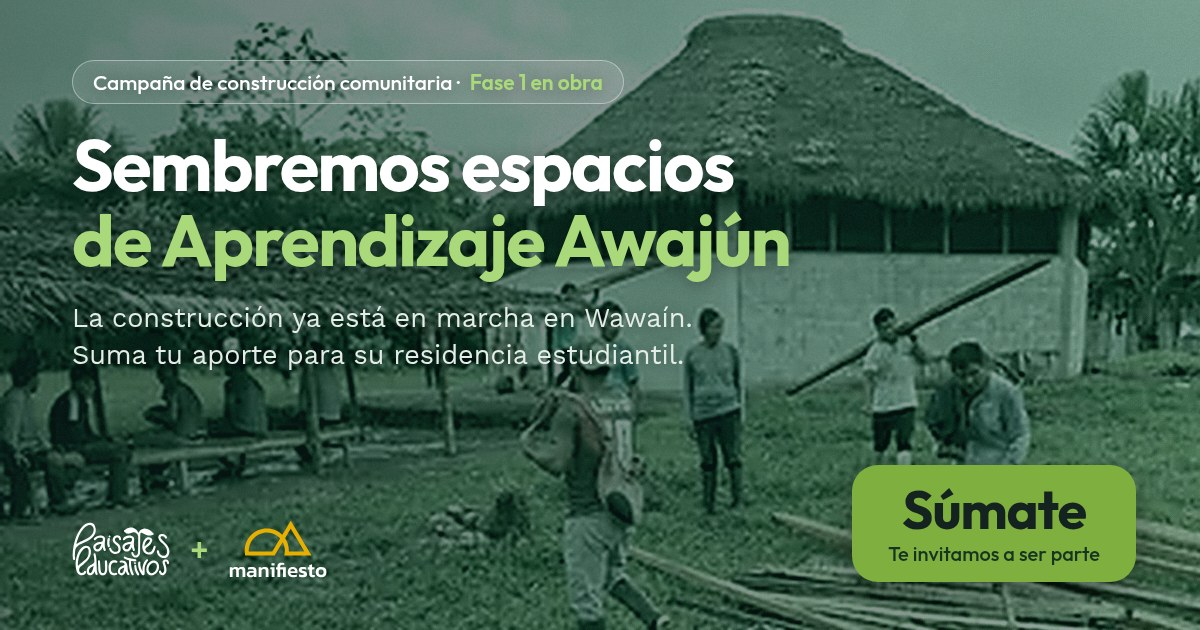
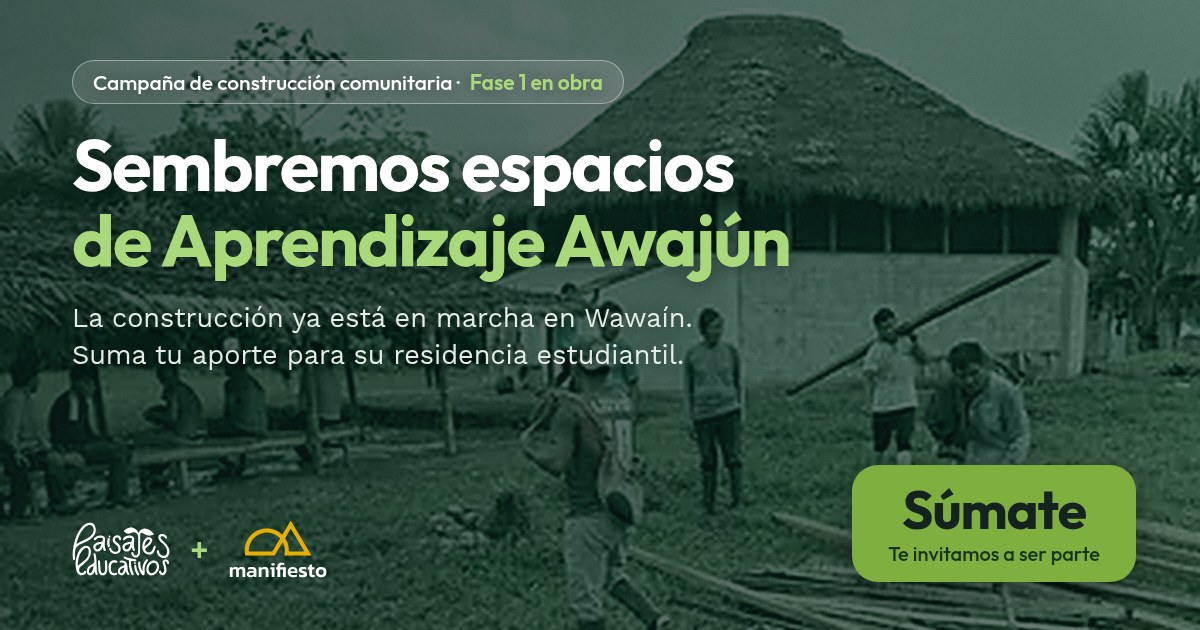
Orden del proyecto, donación de personas por formulario y ajustes de datos
- Paisajes Educativos: 15 coordinadores y 7 proyectos.
- Casa Semilla se retira su "Conoce más" (bambú, norma, ventilación).
- Orden del proyecto: Casa Semilla, Así avanza Wawaín, y luego el
  resto como estaba. Las fotos de Así avanza ya no van numeradas.
- Donación de personas: se retiran los datos de la cuenta y el botón
  de copiar. Se explica por qué se piden datos (solo se recibe dinero
  bajo el concepto de donación) y se ofrecen dos caminos: el
  formulario y WhatsApp.
- Transparencia: se quita la referencia a la cuenta y al Yape.
- Imagen para compartir: verde más oscuro para que se lean los títulos.

Claude-Session: https://claude.ai/code/session_01WHrWMvfaq2NJDX1hXrNGz8

diff --git a/index.html b/index.html
@@ -351,12 +351,6 @@ figcaption{font-size:var(--f-mini);color:var(--gris-2);margin-top:6px}
 .aporta .enlace{display:inline-block;margin-top:8px}
 @media(min-width:900px){.aporta-2{grid-template-columns:1fr 1fr;gap:var(--e-2)}.aporta{padding:18px 22px}.aporta h3{font-size:18px}}
 
-/* rejilla de datos técnicos dentro de un "Conoce más" */
-.tecnica{display:grid;grid-template-columns:1fr 1fr;gap:var(--e-1)}
-.tecnica div{background:var(--blanco);border:1px solid var(--linea);border-radius:var(--r-s);padding:11px 13px}
-.tecnica h4{font-size:14.5px;margin-bottom:3px}
-.tecnica p{margin:0;font-size:13px;line-height:1.42}
-@media(min-width:900px){.tecnica{grid-template-columns:repeat(4,1fr);gap:var(--e-2)}.tecnica div{padding:14px 16px}.tecnica h4{font-size:16px}.tecnica p{font-size:14px}}
 
 /* ═════════ BITÁCORA DE OBRA ═════════ */
 .bitacora{margin-top:var(--e-3)}
@@ -519,25 +513,20 @@ figcaption{font-size:var(--f-mini);color:var(--gris-2);margin-top:6px}
   .panel-cta .btn{flex:0 0 auto}
 }
 
-/* datos de la cuenta */
-.donar-grid{display:grid;gap:var(--e-2)}
-.cuenta{border:1px solid var(--linea);border-radius:var(--r-m);overflow:hidden}
-.cuenta-tit{display:flex;justify-content:space-between;align-items:center;gap:10px;background:var(--tinte);padding:9px 13px}
-.cuenta-tit p{margin:0;font-size:12px;color:var(--gris)}
-.cuenta-tit strong{display:block;font-family:var(--display);font-size:15px;color:var(--hondo);letter-spacing:.01em}
-.sello-inst{font-family:var(--display);font-size:11px;font-weight:600;color:var(--marca);background:var(--blanco);border:1px solid #B9D3C4;padding:3px 9px;border-radius:100px;white-space:nowrap}
-.fila-copia{display:grid;grid-template-columns:1fr auto;gap:10px;align-items:center;padding:9px 13px;border-top:1px solid var(--linea)}
-.fila-copia span{display:block;font-size:12px;color:var(--gris)}
-.fila-copia code{font-family:var(--display);font-weight:600;font-size:14.5px;color:var(--hondo);letter-spacing:0;word-break:break-all}
-.copiar{font-family:var(--display);font-weight:600;font-size:13px;color:var(--marca);background:var(--crema-2);border:1px solid var(--linea-fuerte);border-radius:100px;padding:7px 13px;cursor:pointer;min-width:74px}
-.copiar.ok{background:var(--marca);color:#fff;border-color:var(--marca)}
-.fila-copia.concepto{background:#FFF8E1;border-top:2px solid var(--amarillo)}
-.fila-copia.concepto span{color:#7A5600;font-weight:600;font-family:var(--display)}
-.fila-copia.concepto code{word-break:normal}
-.aviso-concepto{background:#FFF8E1;border:1px solid #EACB73;border-left:4px solid var(--amarillo);border-radius:var(--r-s);padding:10px 13px;font-size:13.5px;color:var(--tinta);margin:0 0 10px;line-height:1.45}
-.aviso-concepto b{font-family:var(--display)}
-.donar-nota{font-size:13px;color:var(--gris);margin:0}
-@media(min-width:900px){.donar-grid{grid-template-columns:1fr 1fr;gap:var(--e-3);align-items:start}}
+/* donación de personas: por qué los datos + dos caminos */
+.nota-datos{background:#FFF8E1;border:1px solid #EACB73;border-left:4px solid var(--amarillo);border-radius:var(--r-s);padding:10px 13px;font-size:13px;line-height:1.45;color:var(--tinta);margin:0 0 var(--e-2)}
+.nota-datos b{font-family:var(--display)}
+.vias-donar{display:grid;gap:var(--e-1)}
+.via-don{display:flex;flex-direction:column;gap:6px;background:var(--papel);border:1px solid var(--linea);border-radius:var(--r-m);padding:13px 15px}
+.via-don h4{font-size:15px}
+.via-don p{flex:1;margin:0;font-size:13px;color:var(--gris);line-height:1.42}
+.via-don .btn{margin-top:6px;width:100%}
+@media(min-width:900px){
+  .nota-datos{font-size:14px;padding:12px 16px}
+  .vias-donar{grid-template-columns:1fr 1fr;gap:var(--e-2)}
+  .via-don{padding:18px 20px}.via-don h4{font-size:17px}.via-don p{font-size:14px}
+  .via-don .btn{width:auto;align-self:flex-start}
+}
 
 /* niveles de empresa */
 /* niveles y Frutos comparten el ámbar: son las categorías de auspicio */
@@ -674,30 +663,6 @@ body.panel-abierto{overflow:hidden}
 .transparencia .sub{font-size:17px}
 .no-js-only{display:block}.js .no-js-only{display:none}
 
-/* ═════════ AVISO COPIADO ═════════ */
-.aviso{position:fixed;left:50%;bottom:92px;transform:translate(-50%,20px);z-index:300;background:var(--hondo);color:#fff;font-family:var(--display);font-size:14px;padding:9px 18px;border-radius:100px;opacity:0;pointer-events:none;transition:opacity .2s,transform .2s}
-.aviso.ver{opacity:1;transform:translate(-50%,0)}
-
-/* ═════ MÓVIL: títulos al ~85 % y bloques más compactos ═════ */
-@media(max-width:899px){
-  .cabeza-seccion h2{font-size:16px}
-  .cabeza-seccion{margin-bottom:var(--e-2)}
-  .pieza h3{font-size:14.5px}
-  .aporta h3,.frutos h4{font-size:14.5px}
-  .secuencia h3{font-size:14.5px}
-  .spec .n{font-size:17px}
-  .dato .n{font-size:17px}
-  .nivel .nom{font-size:14px}.nivel .precio{font-size:17px}
-  .meta-cifras .reunido{font-size:29px}.meta-cifras .total b{font-size:17px}
-  .desglose .n{font-size:16.5px}
-  .esc .n{font-size:14.5px}
-  .cierre h2{font-size:19.5px}
-  .transparencia .tit{font-size:17px}
-  .transparencia .sub{font-size:14.5px}
-  .panel-cab h2{font-size:14.5px}
-  .avance .cifra{font-size:26px}
-}
-
 /* sin JS: se muestran los cuatro paneles */
 .no-js .via-card .ver{display:none}
 
@@ -819,6 +784,82 @@ body.panel-abierto{overflow:hidden}
 <section class="seccion wrap" id="proyecto" aria-labelledby="h-proyecto">
   <div class="cabeza-seccion"><h2 id="h-proyecto">El proyecto</h2><span class="raya" aria-hidden="true"></span></div>
 
+  <!-- Casa Semilla -->
+  <div class="bloque" id="casa-semilla">
+    <div class="cab-bloque">
+      <div>
+        <p class="eyebrow">Casa Semilla Awajún · residencia estudiantil</p>
+        <h2 class="tit">Un lugar para dormir, cocinar y descansar</h2>
+      </div>
+      <p class="entrada">Un módulo de madera y bambú sobre cimentación de concreto, diseñado para los estudiantes que lo van a habitar. Optimiza la capacidad de camas y deja un espacio flexible al centro, para que la residencia sirva también para estudiar y compartir.</p>
+    </div>
+
+    <div class="par">
+      <figure class="ahora">
+        <img src="assets/img/residencia-hoy-680.webp" srcset="assets/img/residencia-hoy-680.webp 680w, assets/img/residencia-hoy-1200.webp 1200w" sizes="(min-width:900px) 550px, 46vw" alt="Interior del alojamiento actual: camas bajo un techo de calamina, paredes de caña, piso de tierra y ropa tendida" loading="lazy" width="680" height="425">
+        <span class="etq">Hoy</span>
+        <figcaption>Donde duermen hoy: caña, calamina y piso de tierra, sin cocina ni servicios.</figcaption>
+      </figure>
+      <figure class="luego">
+        <img src="assets/img/casa-semilla-render-680.webp" srcset="assets/img/casa-semilla-render-680.webp 680w, assets/img/casa-semilla-render-936.webp 936w" sizes="(min-width:900px) 550px, 46vw" alt="Render de Casa Semilla Awajún: volumen de madera y bambú con celosías, techo de calamina y alero de palma" loading="lazy" width="680" height="425">
+        <span class="etq">Lo que construimos juntos</span>
+        <figcaption>Casa Semilla Awajún: ventilación cruzada, camas protegidas y un espacio común al centro.</figcaption>
+      </figure>
+    </div>
+
+    <div class="specs">
+      <div class="spec"><p class="n">120 m²</p><p>área a construir</p></div>
+      <div class="spec"><p class="n">28</p><p>camas</p></div>
+      <div class="spec"><p class="n">1</p><p>cocina</p></div>
+      <div class="spec"><p class="n">1</p><p>baño</p></div>
+    </div>
+
+    <div class="aporta-2">
+      <div class="aporta comunidad">
+        <h3>Lo que ya puso la comunidad</h3>
+        <ul class="lista">
+          <li>Madera recolectada y curada</li>
+          <li>Bolsas de cemento</li>
+          <li>Herramientas de construcción</li>
+          <li>Las faenas organizadas y la mano de obra</li>
+        </ul>
+      </div>
+      <div class="aporta campana">
+        <h3>Lo que suma la campaña</h3>
+        <ul class="lista">
+          <li>Fijaciones y conectores estructurales</li>
+          <li>Herramientas de corte</li>
+          <li>Preservantes, mallas y cerramientos</li>
+          <li>Instalación sanitaria y eléctrica</li>
+        </ul>
+        <a class="enlace" href="#meta">Ver la meta y en qué se convierte</a>
+      </div>
+    </div>
+  </div>
+
+  <!-- Bitácora de obra -->
+  <div class="bloque" id="bitacora">
+    <div class="cab-bloque">
+      <h2 class="tit">Así avanza Wawaín</h2>
+      <p class="entrada">La comunidad ya prepara la madera. Estas son las tres etapas del trabajo que está en curso ahora mismo, antes de que llegue el material de la campaña.</p>
+    </div>
+    <div class="carrusel bitacora" tabindex="0" aria-label="Avance de obra en Wawaín">
+      <figure>
+        <img src="assets/img/obra-1-poza.webp" alt="Poza de curado armada con estructura de caña y plástico, junto a la escuela de la comunidad" loading="lazy" width="420" height="315">
+        <figcaption><b>Se arma la poza</b>Estructura de caña y geomembrana, levantada en faena junto a la escuela.</figcaption>
+      </figure>
+      <figure>
+        <img src="assets/img/obra-2-faena.webp" alt="Comuneros acomodan listones de madera dentro de la poza de tratamiento" loading="lazy" width="420" height="315">
+        <figcaption><b>La faena acomoda la madera</b>Los listones recolectados por la comunidad entran a la poza, pieza por pieza.</figcaption>
+      </figure>
+      <figure>
+        <img src="assets/img/obra-3-curado.webp" alt="Madera sumergida en la solución de preservante dentro de la poza" loading="lazy" width="420" height="315">
+        <figcaption><b>La madera se cura</b>Sumergida en preservante, queda protegida contra hongos e insectos.</figcaption>
+      </figure>
+    </div>
+    <p class="desliza">Desliza para ver las tres etapas.</p>
+  </div>
+
   <!-- Qué es -->
   <div class="bloque" id="que-es">
     <div class="cab-bloque">
@@ -890,95 +931,6 @@ body.panel-abierto{overflow:hidden}
         <p class="nota-fuente">MINEDU (2023, 2024) · ComexPerú (2025) · PRONIED–UGM, «Innovación educativa en Frontera» (2026) · Memoria del proyecto.</p>
       </div>
     </details>
-  </div>
-
-  <!-- Casa Semilla -->
-  <div class="bloque" id="casa-semilla">
-    <div class="cab-bloque">
-      <div>
-        <p class="eyebrow">Casa Semilla Awajún · residencia estudiantil</p>
-        <h2 class="tit">Un lugar para dormir, cocinar y descansar</h2>
-      </div>
-      <p class="entrada">Un módulo de madera y bambú sobre cimentación de concreto, diseñado para los estudiantes que lo van a habitar. Optimiza la capacidad de camas y deja un espacio flexible al centro, para que la residencia sirva también para estudiar y compartir.</p>
-    </div>
-
-    <div class="par">
-      <figure class="ahora">
-        <img src="assets/img/residencia-hoy-680.webp" srcset="assets/img/residencia-hoy-680.webp 680w, assets/img/residencia-hoy-1200.webp 1200w" sizes="(min-width:900px) 550px, 46vw" alt="Interior del alojamiento actual: camas bajo un techo de calamina, paredes de caña, piso de tierra y ropa tendida" loading="lazy" width="680" height="425">
-        <span class="etq">Hoy</span>
-        <figcaption>Donde duermen hoy: caña, calamina y piso de tierra, sin cocina ni servicios.</figcaption>
-      </figure>
-      <figure class="luego">
-        <img src="assets/img/casa-semilla-render-680.webp" srcset="assets/img/casa-semilla-render-680.webp 680w, assets/img/casa-semilla-render-936.webp 936w" sizes="(min-width:900px) 550px, 46vw" alt="Render de Casa Semilla Awajún: volumen de madera y bambú con celosías, techo de calamina y alero de palma" loading="lazy" width="680" height="425">
-        <span class="etq">Lo que construimos juntos</span>
-        <figcaption>Casa Semilla Awajún: ventilación cruzada, camas protegidas y un espacio común al centro.</figcaption>
-      </figure>
-    </div>
-
-    <div class="specs">
-      <div class="spec"><p class="n">120 m²</p><p>área a construir</p></div>
-      <div class="spec"><p class="n">28</p><p>camas</p></div>
-      <div class="spec"><p class="n">1</p><p>cocina</p></div>
-      <div class="spec"><p class="n">1</p><p>baño</p></div>
-    </div>
-
-    <div class="aporta-2">
-      <div class="aporta comunidad">
-        <h3>Lo que ya puso la comunidad</h3>
-        <ul class="lista">
-          <li>Madera recolectada y curada</li>
-          <li>Bolsas de cemento</li>
-          <li>Herramientas de construcción</li>
-          <li>Las faenas organizadas y la mano de obra</li>
-        </ul>
-      </div>
-      <div class="aporta campana">
-        <h3>Lo que suma la campaña</h3>
-        <ul class="lista">
-          <li>Fijaciones y conectores estructurales</li>
-          <li>Herramientas de corte</li>
-          <li>Preservantes, mallas y cerramientos</li>
-          <li>Instalación sanitaria y eléctrica</li>
-        </ul>
-        <a class="enlace" href="#meta">Ver la meta y en qué se convierte</a>
-      </div>
-    </div>
-
-    <details class="mas">
-      <summary><span class="abrir">Conoce más</span><span class="cerrar">Ver menos</span><span class="flecha" aria-hidden="true"></span><span class="pista">materiales, norma y sistema constructivo</span></summary>
-      <div class="mas-cuerpo">
-        <p>Bambú Guadua y madera local sobre una cimentación de concreto. Es el acero vegetal del territorio: un material que crece cerca, que la comunidad sabe trabajar y que, bien diseñado, cumple norma.</p>
-        <div class="tecnica">
-          <div><h4>Bambú Guadua</h4><p>Material local, de crecimiento rápido, con buen comportamiento estructural en clima húmedo.</p></div>
-          <div><h4>Norma E.100</h4><p>El diseño sigue la norma peruana de construcción con bambú: uniones, arriostres y protección.</p></div>
-          <div><h4>Ventilación cruzada</h4><p>Celosías y aleros que bajan la temperatura interior, que hoy es el principal problema del alojamiento.</p></div>
-          <div><h4>Construcción comunitaria</h4><p>Se levanta en faena, con oficios que la comunidad domina, y queda documentada para replicarse.</p></div>
-        </div>
-      </div>
-    </details>
-  </div>
-
-  <!-- Bitácora de obra -->
-  <div class="bloque" id="bitacora">
-    <div class="cab-bloque">
-      <h2 class="tit">Así avanza Wawaín</h2>
-      <p class="entrada">La comunidad ya prepara la madera. Estas son las tres etapas del trabajo que está en curso ahora mismo, antes de que llegue el material de la campaña.</p>
-    </div>
-    <div class="carrusel bitacora" tabindex="0" aria-label="Avance de obra en Wawaín">
-      <figure>
-        <img src="assets/img/obra-1-poza.webp" alt="Poza de curado armada con estructura de caña y plástico, junto a la escuela de la comunidad" loading="lazy" width="420" height="315">
-        <figcaption><b>1 · Se arma la poza</b>Estructura de caña y geomembrana, levantada en faena junto a la escuela.</figcaption>
-      </figure>
-      <figure>
-        <img src="assets/img/obra-2-faena.webp" alt="Comuneros acomodan listones de madera dentro de la poza de tratamiento" loading="lazy" width="420" height="315">
-        <figcaption><b>2 · La faena acomoda la madera</b>Los listones recolectados por la comunidad entran a la poza, pieza por pieza.</figcaption>
-      </figure>
-      <figure>
-        <img src="assets/img/obra-3-curado.webp" alt="Madera sumergida en la solución de preservante dentro de la poza" loading="lazy" width="420" height="315">
-        <figcaption><b>3 · La madera se cura</b>Sumergida en preservante, queda protegida contra hongos e insectos.</figcaption>
-      </figure>
-    </div>
-    <p class="desliza">Desliza para ver las tres etapas.</p>
   </div>
 
   <!-- Cronograma -->
@@ -1078,7 +1030,7 @@ body.panel-abierto{overflow:hidden}
       <button type="button" class="via-card" role="tab" id="t-personas" aria-controls="donar" aria-selected="true" tabindex="0">
         <span class="eyebrow">Recursos</span>
         <span class="nom"><span class="nom-largo">Donación de personas</span><span class="nom-corto">Personas</span></span>
-        <span class="una">Un aporte libre, sin mínimo, por Yape, Plin o transferencia.</span>
+        <span class="una">Un aporte libre, sin mínimo. Coordinamos contigo cómo donar.</span>
         <span class="ver">Ver cómo</span>
       </button>
       <button type="button" class="via-card" role="tab" id="t-empresas" aria-controls="empresas" aria-selected="false" tabindex="-1">
@@ -1105,26 +1057,22 @@ body.panel-abierto{overflow:hidden}
     <div class="panel-via" id="donar" role="tabpanel" aria-labelledby="t-personas">
       <p class="lead">Invitación abierta: cualquier persona puede sumarse con el monto que pueda, sin mínimo. Es la vía más frecuente.</p>
       <dl class="tripleta">
-        <div><dt>Qué aportas</dt><dd>Un aporte libre por Yape, Plin o transferencia a la cuenta institucional.</dd></div>
+        <div><dt>Qué aportas</dt><dd>Un aporte libre, sin mínimo, como donación a Paisajes Educativos.</dd></div>
         <div><dt>Qué recibes</dt><dd>Transparencia: sumamos cada aporte al avance de la campaña y mostramos en qué se convierte, con evidencia de obra.</dd></div>
-        <div><dt>Cómo empieza</dt><dd>Donas con los datos de abajo, con el concepto «Donativo proyecto Awajún».</dd></div>
+        <div><dt>Cómo empieza</dt><dd>Nos dejas tus datos en el formulario o por WhatsApp y coordinamos contigo cómo donar.</dd></div>
       </dl>
       <div class="panel-esp">
-        <div class="donar-grid">
-          <div class="cuenta">
-            <div class="cuenta-tit"><div><p>Titular</p><strong>PAISAJES EDUCATIVOS</strong></div><span class="sello-inst">Cuenta institucional</span></div>
-            <div class="fila-copia"><div><span>BCP · Cuenta</span><code>19310982313044</code></div><button type="button" class="copiar" data-copiar="19310982313044">Copiar</button></div>
-            <div class="fila-copia"><div><span>CCI</span><code>00279300109823130480</code></div><button type="button" class="copiar" data-copiar="00279300109823130480">Copiar</button></div>
-            <div class="fila-copia"><div><span>Yape / Plin</span><code>982 778 028</code></div><button type="button" class="copiar" data-copiar="982778028">Copiar</button></div>
-            <div class="fila-copia concepto"><div><span>Concepto o descripción</span><code>Donativo proyecto Awajún</code></div><button type="button" class="copiar" data-copiar="Donativo proyecto Awajún">Copiar</button></div>
+        <p class="nota-datos"><b>¿Por qué te pedimos tus datos?</b> Paisajes Educativos solo puede recibir dinero bajo el concepto de donación. Por eso, antes de que dones necesitamos algunos datos tuyos: así dejamos constancia de cada aporte, lo sumamos al avance de la campaña y podemos rendir cuentas. Las donaciones de personas no generan comprobante tributario.</p>
+        <div class="vias-donar">
+          <div class="via-don">
+            <h4>Completa el formulario</h4>
+            <p>Déjanos tus datos y nos ponemos en contacto para indicarte cómo hacer tu donación.</p>
+            <a class="btn btn-lima btn-sm" href="https://forms.gle/t7DSD425azM6dUjV9" target="_blank" rel="noopener">Ir al formulario</a>
           </div>
-          <div>
-            <p class="aviso-concepto"><b>Importante:</b> al transferir o yapear, escribe en el concepto o descripción <b>«Donativo proyecto Awajún»</b>. Así identificamos tu aporte y lo sumamos al avance de la campaña.</p>
-            <p class="donar-nota">Las donaciones de personas no generan comprobante tributario. Lo que sí hacemos es rendir cuentas: sumamos los aportes y publicamos en qué se convierten. Si prefieres, también puedes donar o enviarnos tu constancia por WhatsApp.</p>
-            <div class="panel-cta">
-              <a class="btn btn-lima btn-sm" href="https://wa.me/51982778028?text=Hola%2C%20quiero%20donar%20a%20la%20campa%C3%B1a%20Sembremos%20espacios%20de%20Aprendizaje%20Awaj%C3%BAn." target="_blank" rel="noopener">Donar por WhatsApp</a>
-              <a class="btn btn-linea btn-sm" href="https://wa.me/51982778028?text=Hola%2C%20acabo%20de%20hacer%20un%20donativo%20a%20la%20campa%C3%B1a%20de%20Aprendizaje%20Awaj%C3%BAn%20y%20les%20env%C3%ADo%20la%20constancia." target="_blank" rel="noopener">Enviar constancia</a>
-            </div>
+          <div class="via-don">
+            <h4>Coordina por WhatsApp</h4>
+            <p>Escríbenos y coordinamos tu donación por chat, con el equipo de la campaña.</p>
+            <a class="btn btn-linea btn-sm" href="https://wa.me/51982778028?text=Hola%2C%20quiero%20donar%20a%20la%20campa%C3%B1a%20Sembremos%20espacios%20de%20Aprendizaje%20Awaj%C3%BAn." target="_blank" rel="noopener">Escribir por WhatsApp</a>
           </div>
         </div>
       </div>
@@ -1252,13 +1200,13 @@ body.panel-abierto{overflow:hidden}
     <div class="bloque-p">
       <div class="cabeza-seccion no-js-only"><h2>Transparencia</h2><span class="raya" aria-hidden="true"></span></div>
       <h2 class="tit">En qué se convierte cada aporte</h2>
-      <p class="entrada">La cuenta receptora está a nombre de Paisajes Educativos, no de una persona. El Yape también es institucional.</p>
+      <p class="entrada">Los aportes se reciben a nombre de Paisajes Educativos, una asociación, no de una persona.</p>
       <ol class="flujo">
         <li><span class="n" aria-hidden="true">1</span><div><h3>Aporte</h3><p>Ingresa a la cuenta institucional de la asociación.</p></div></li>
         <li><span class="n" aria-hidden="true">2</span><div><h3>Ejecución</h3><p>Compra de material con comprobante y obra junto a la comunidad.</p></div></li>
         <li><span class="n" aria-hidden="true">3</span><div><h3>Evidencia</h3><p>Reporte periódico mientras dure la campaña, publicaciones de avance e informe final al donante.</p></div></li>
       </ol>
-      <p style="margin-top:10px"><a class="enlace" href="#donar" data-cerrar-panel>Ver los datos de la cuenta</a></p>
+      <p style="margin-top:10px"><a class="enlace" href="#donar" data-cerrar-panel>Ver cómo donar</a></p>
     </div>
 
     <div class="bloque-p faq">
@@ -1282,7 +1230,7 @@ body.panel-abierto{overflow:hidden}
           <img class="aliado-foto" src="assets/img/equipo-paisajes.webp" alt="" loading="lazy" width="682" height="512">
           <div class="aliado-txt">
             <h3><svg class="logo-pe" viewBox="0 0 1537 847" aria-hidden="true"><use href="#s-pe" width="1537" height="847"/></svg><span class="oculto">Paisajes Educativos</span></h3>
-            <p>Asociación de voluntariado sin fines de lucro. 5 años, 12 coordinadores, +200 voluntarios, 9 proyectos en 4 regiones.</p>
+            <p>Asociación de voluntariado sin fines de lucro. 5 años, 15 coordinadores, +200 voluntarios, 7 proyectos en 4 regiones.</p>
             <ul class="lista">
               <li>Reconocida por el MIMP</li>
               <li>RUC activo y cuenta institucional</li>
@@ -1355,7 +1303,6 @@ body.panel-abierto{overflow:hidden}
   <a class="btn btn-lima btn-sm" href="#donar">Donar</a>
 </div>
 
-<div class="aviso" id="aviso" role="status" aria-live="polite"></div>
 
 <script>
 (function(){
@@ -1518,18 +1465,6 @@ body.panel-abierto{overflow:hidden}
     });
     desplegables.forEach(function(d){ ioMas.observe(d); });
   }
-
-  /* ── Copiar datos ── */
-  var aviso=$('#aviso'), tAviso;
-  function avisar(m){ aviso.textContent=m; aviso.classList.add('ver'); clearTimeout(tAviso); tAviso=setTimeout(function(){aviso.classList.remove('ver');},1800); }
-  $$('[data-copiar]').forEach(function(b){
-    b.addEventListener('click',function(){
-      var v=b.getAttribute('data-copiar');
-      var ok=function(){ b.textContent='Copiado'; b.classList.add('ok'); avisar('Copiado: '+v); setTimeout(function(){b.textContent='Copiar';b.classList.remove('ok');},1800); };
-      if(navigator.clipboard&&window.isSecureContext){ navigator.clipboard.writeText(v).then(ok,function(){fallback();}); } else fallback();
-      function fallback(){ var t=document.createElement('textarea'); t.value=v; t.style.position='fixed'; t.style.opacity='0'; document.body.appendChild(t); t.select(); try{document.execCommand('copy');ok();}catch(e){avisar(v);} t.remove(); }
-    });
-  });
 
   /* ── Panel de transparencia ── */
   var panel=$('#transparencia'), velo=$('.velo-panel'), ultimoFoco=null;
